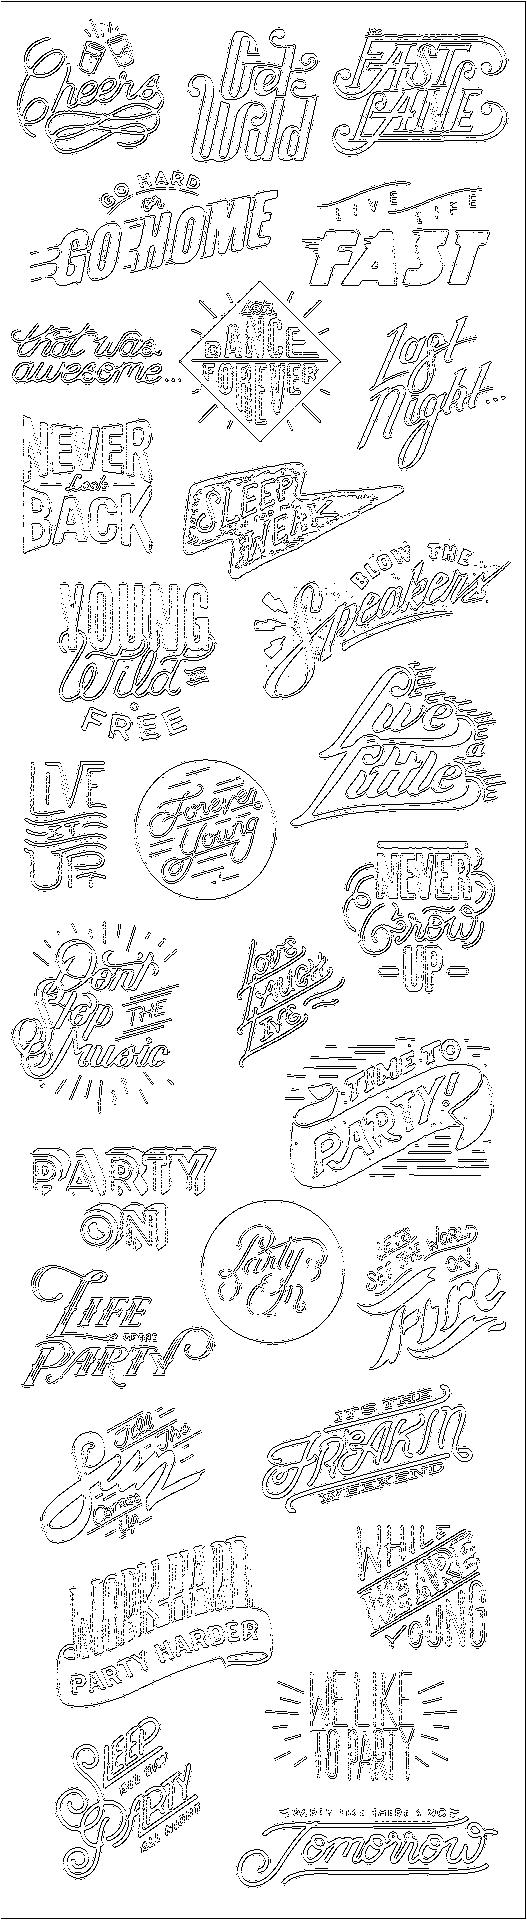
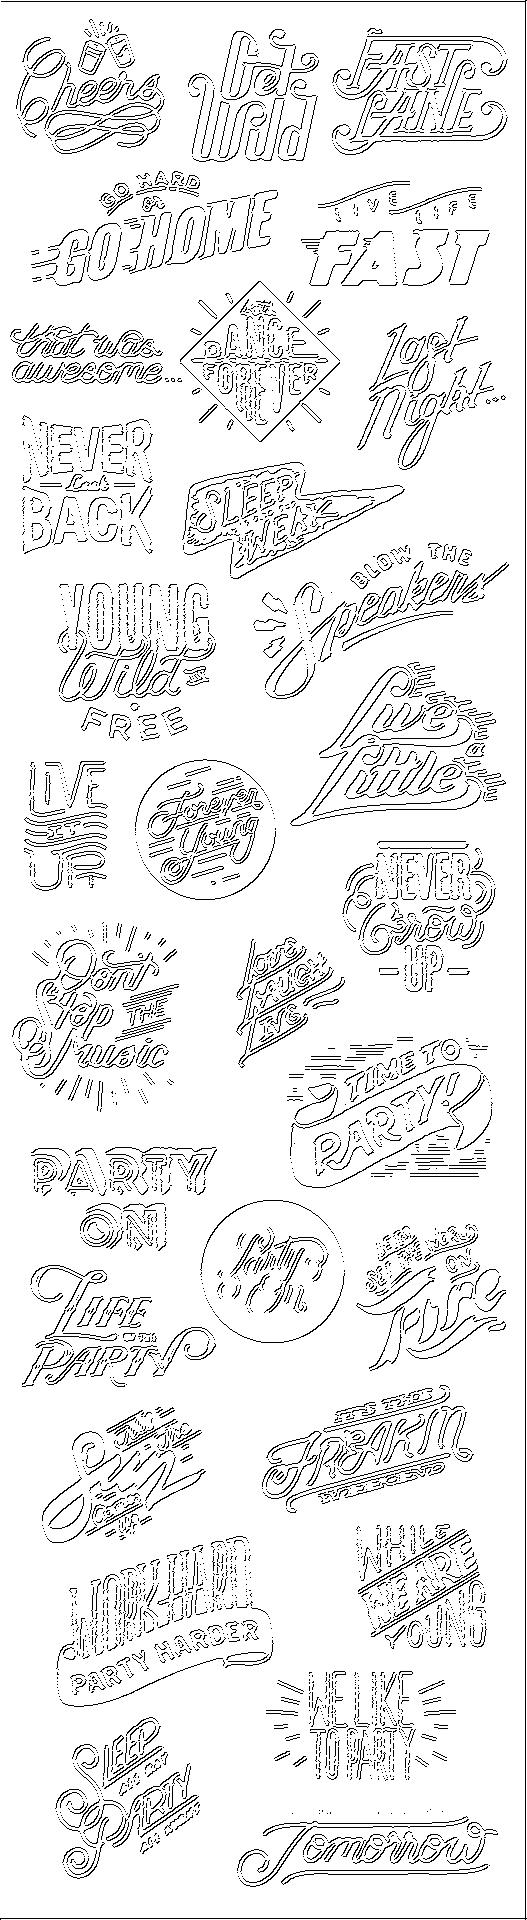
super speed smoothing-fucntion

diff --git a/src/canny_related.py b/src/canny_related.py
@@ -2,7 +2,7 @@ import numpy as np
 from src import utils
 horizontalMask = np.empty(shape=(3, 3))
 verticalMask = np.empty(shape=(3, 3))
-bigThreshold = 70
+bigThreshold = 50
 smallThreshold = 20
 
 
@@ -78,24 +78,24 @@ def cannyGetEdgePoints(magMatrix, dirMatrix, width, useSmallThreshold):
                 # bucket 3
                 if (dirInWhichBucket(dir[id]) == 3):
                     if ((id - width not in points) and getMagValue(id, mag, 1, width) >= smallThreshold
-                            and getDirValue(id, dir, 1,width) != -1 and (dirInWhichBucket(getDirValue(id, dir, 1, width)) == 3)):
+                            and getDirValue(id, dir, 1,width) != 181 and (dirInWhichBucket(getDirValue(id, dir, 1, width)) == 3)):
                         if (isHorMax(id - width, mag, width)):
                             points.append(id - width)
                             newConsidering.append(id - width)
                     if ((id + width not in points) and getMagValue(id, mag, 7, width) >= smallThreshold
-                            and getDirValue(id,dir,7,width) != -1 and (dirInWhichBucket(getDirValue(id, dir, 7, width)) == 3)):
+                            and getDirValue(id,dir,7,width) != 181 and (dirInWhichBucket(getDirValue(id, dir, 7, width)) == 3)):
                         if (isHorMax(id + width, mag, width)):
                             points.append(id + width)
                             newConsidering.append(id + width)
                 # bucket 1
                 elif (dirInWhichBucket(dir[id]) == 1):
                     if ((id - width + 1 not in points) and getMagValue(id, mag, 2, width) >= smallThreshold
-                            and getDirValue(id, dir, 2, width) != -1 and (dirInWhichBucket(getDirValue(id, dir, 2, width)) == 1)):
+                            and getDirValue(id, dir, 2, width) != 181 and (dirInWhichBucket(getDirValue(id, dir, 2, width)) == 1)):
                         if (isBackwardSlashMax(id - width + 1, mag, width)):
                             points.append(id - width + 1)
                             newConsidering.append(id - width + 1)
                     if ((id + width - 1 not in points) and getMagValue(id, mag, 6, width) >= smallThreshold
-                            and getDirValue(id, dir, 6, width) != -1 and (dirInWhichBucket(getDirValue(id, dir, 6, width)) == 1)):
+                            and getDirValue(id, dir, 6, width) != 181 and (dirInWhichBucket(getDirValue(id, dir, 6, width)) == 1)):
                         if (isBackwardSlashMax(id + width - 1, mag, width)):
                             points.append(id + width - 1)
                             newConsidering.append(id + width - 1)
@@ -103,12 +103,12 @@ def cannyGetEdgePoints(magMatrix, dirMatrix, width, useSmallThreshold):
                 # bucket 4
                 elif (dirInWhichBucket(dir[id]) == 4):
                     if ((id - 1 not in points) and getMagValue(id, mag, 3, width) >= smallThreshold
-                            and getDirValue(id, dir,3,width) != -1 and (dirInWhichBucket(getDirValue(id, dir, 3, width)) == 4)):
+                            and getDirValue(id, dir,3,width) != 181 and (dirInWhichBucket(getDirValue(id, dir, 3, width)) == 4)):
                         if (isVerMax(id - 1, mag, width)):
                             points.append(id - 1)
                             newConsidering.append(id - 1)
                     if ((id + 1 not in points) and getMagValue(id, mag, 5, width) >= smallThreshold
-                            and getDirValue(id, dir,5,width) != -1 and (dirInWhichBucket(getDirValue(id, dir, 5, width)) == 4)):
+                            and getDirValue(id, dir,5,width) != 181 and (dirInWhichBucket(getDirValue(id, dir, 5, width)) == 4)):
                         if (isVerMax(id + 1, mag, width)):
                             points.append(id + 1)
                             newConsidering.append(id + 1)
@@ -116,12 +116,12 @@ def cannyGetEdgePoints(magMatrix, dirMatrix, width, useSmallThreshold):
                 # bucket 2
                 elif (dirInWhichBucket(dir[id]) == 2):
                     if ((id - width - 1 not in points) and getMagValue(id, mag, 0, width) >= smallThreshold
-                            and getDirValue(id, dir, 0, width) != -1 and (dirInWhichBucket(getDirValue(id, dir, 0, width)) == 2)):
+                            and getDirValue(id, dir, 0, width) != 181 and (dirInWhichBucket(getDirValue(id, dir, 0, width)) == 2)):
                         if (isForwardSlashMax(id - width - 1, mag, width)):
                             points.append(id - width - 1)
                             newConsidering.append(id - width - 1)
                     if ((id + width + 1 not in points) and getMagValue(id, mag, 8, width) >= smallThreshold
-                            and getDirValue(id, dir, 8, width) != -1 and (dirInWhichBucket(getDirValue(id, dir, 8, width)) == 2)):
+                            and getDirValue(id, dir, 8, width) != 181 and (dirInWhichBucket(getDirValue(id, dir, 8, width)) == 2)):
                         if (isForwardSlashMax(id + width + 1, mag, width)):
                             points.append(id + width + 1)
                             newConsidering.append(id + width + 1)
@@ -185,42 +185,42 @@ def getDirValue(id, dirFlatten, relativeLocation, width):
         try:
             return dirFlatten[id - width - 1]
         except:
-            return -1
+            return 181
     elif (relativeLocation == 1):
         try:
             return dirFlatten[id - width]
         except:
-            return -1
+            return 181
     elif (relativeLocation == 2):
         try:
             return dirFlatten[id - width + 1]
         except:
-            return -1
+            return 181
     elif (relativeLocation == 3):
         try:
             return dirFlatten[id - 1]
         except:
-            return -1
+            return 181
     elif (relativeLocation == 5):
         try:
             return dirFlatten[id + 1]
         except:
-            return -1
+            return 181
     elif (relativeLocation == 6):
         try:
             return dirFlatten[id + width - 1]
         except:
-            return -1
+            return 181
     elif (relativeLocation == 7):
         try:
             return dirFlatten[id + width]
         except:
-            return -1
+            return 181
     elif (relativeLocation == 8):
         try:
             return dirFlatten[id + width + 1]
         except:
-            return -1
+            return 181
 
 
 def isHorMax(id, magFlatten, width):
@@ -256,11 +256,10 @@ def isBackwardSlashMax(id, magFlatten, width):
 
 
 # parameter : gradient direction
-# output is edge direction as below
-#       1 : /
-#       2 : \
-#       3 : |
-#       4 : -
+#       1 : \
+#       2 : /
+#       3 : -
+#       4 : |
 def dirInWhichBucket(dirValue):
     if((dirValue < 22.5 and dirValue >= -22.5) or (dirValue >= 157.5 and dirValue < -157.5)):
         return 3

diff --git a/src/img_handler.py b/src/img_handler.py
@@ -2,9 +2,13 @@ from PIL import Image
 import numpy as np
 from src import utils
 import math
+import time
+from scipy import ndimage
+
 
 def readImage(inputPath):
     return Image.open(inputPath)
+
 
 # too slow
 def savePixelGrayValueToMatrixSlow(img):
@@ -19,7 +23,6 @@ def savePixelGrayValueToMatrix(img):
     matrix2 = rgbMatrix[:, :, 1] * 0.587
     matrix3 = rgbMatrix[:, :, 2] * 0.114
     return matrix1 + matrix2 + matrix3
-
 
 
 def smoothingMaxMin(grayMatrix, margin):
@@ -58,17 +61,6 @@ def smoothingMaxMin(grayMatrix, margin):
     # return rs
 
 
-def smoothingAvg(grayMatrix, margin):
-    height = grayMatrix.shape[0]
-    width = grayMatrix.shape[1]
-    for y in range(height):
-        for x in range(width):
-            grayMatrix[y][x] = grayMatrix[y][x - 1] if x > 0 else grayMatrix[y][x + 1]
-            grayMatrix[y][x] = np.average(grayMatrix[y - margin if y >= margin else 0: y + margin + 1,
-                                          x - margin if x >= margin else 0: x + margin + 1])
-    return grayMatrix
-
-
 def convertToGrayValue(rgbValue):
     return (0.299 * rgbValue[0] + 0.587 * rgbValue[1] + 0.114 * rgbValue[2])
 
@@ -87,38 +79,44 @@ def changeImageToGray(input, output):
     # imgRS.show()
     imgRS.save(output)
 
-def smoothingAvg2(grayMatrix,margin):
+
+def smoothingAvg(grayMatrix, margin):
+    start = time.clock()
     width = grayMatrix.shape[1]
     height = grayMatrix.shape[0]
-    biggerMatrix = utils.saveToBiggerMatrix(grayMatrix,margin)
-    # print(biggerMatrix)
-    sum_Y_Matrix = np.zeros((height, width + margin*2))
-    for y in range(margin,biggerMatrix.shape[0]-margin):
+    
+    # create sum matrix
+    biggerMatrix = utils.saveToBiggerMatrix(grayMatrix, margin)
+    sum_Y_Matrix = np.zeros((height, width + margin * 2))
+    for y in range(margin, biggerMatrix.shape[0] - margin):
         for i in range(y - margin, y + margin + 1):
-            sum_Y_Matrix[y-margin,:] += biggerMatrix[i,:]
+            sum_Y_Matrix[y - margin, :] += biggerMatrix[i, :]
     sumMatrix = np.zeros(grayMatrix.shape)
-    for x in range(margin,biggerMatrix.shape[1]-margin):
+    for x in range(margin, biggerMatrix.shape[1] - margin):
         for i in range(x - margin, x + margin + 1):
-            # print(sumMatrix[:,x-margin])
-            # print(biggerMatrix[:,i])
-            sumMatrix[:,x-margin] += sum_Y_Matrix[:,i]
-    rs = np.empty(grayMatrix.shape)
-    for y in range(height):
-        for x in range(width):
-            top = y - margin if y >= margin else 0
-            bottom = y + margin if y + margin < height else height - 1
-            left = x - margin if x >= margin else 0
-            right = x + margin if x + margin < width else width  - 1
-            numberOfNearPixels = (bottom - top + 1) * (right - left + 1)
-            rs[y][x] = np.round(sumMatrix[y][x]/numberOfNearPixels)
+            sumMatrix[:, x - margin] += sum_Y_Matrix[:, i]
+            
+    # create neighbor-count matrix
+    onesMatrix = np.ones(grayMatrix.shape)
+    biggerMatrix = utils.saveToBiggerMatrix(onesMatrix, margin)
+    sum_Y_Matrix_Count = np.zeros((height, width + margin * 2))
+    for y in range(margin, biggerMatrix.shape[0] - margin):
+        for i in range(y - margin, y + margin + 1):
+            sum_Y_Matrix_Count[y - margin, :] += biggerMatrix[i, :]
+    sumMatrixCount = np.zeros(grayMatrix.shape)
+    for x in range(margin, biggerMatrix.shape[1] - margin):
+        for i in range(x - margin, x + margin + 1):
+            sumMatrixCount[:, x - margin] += sum_Y_Matrix_Count[:, i]
+    rs = np.floor(sumMatrix / sumMatrixCount)
     return rs
 
+
 def sharpen(grayMatrix, howSharp):
-    kernel = np.zeros((3,3))
-    kernel.fill(-1 * howSharp / 8)
+    kernel = np.zeros((3, 3))
+    kernel.fill(-1 * howSharp / 9)
     kernel[1][1] = howSharp
-    return utils.convolve(grayMatrix,kernel)
+    return utils.convolve(grayMatrix, kernel)
 
 
-
-
+def smoothingAvgFromScipy(grayMatrix, margin):
+    return ndimage.generic_filter(grayMatrix, np.nanmean, size=2 * margin + 1, mode='constant', cval=np.NaN)

diff --git a/src/main.py b/src/main.py
@@ -2,12 +2,12 @@ import time
 from PIL import Image
 from src.utils import from2dTo1d,from1dTo2d, saveToBiggerMatrix
 from src.canny_related import initiateMask, getGradientMatrix, getMagnitudeMatrix, getDirectionMatrix, cannyGetEdgePoints
-from src.img_handler import readImage, savePixelGrayValueToMatrix, smoothingAvg, smoothingAvg2
+from src.img_handler import readImage, savePixelGrayValueToMatrix, smoothingAvg, smoothingAvgFromScipy
 from src import test
 import numpy as np
 from src import img_handler
-ip = "..\\bunny.jpg"
-op = "..\\bunny_edge.jpg"
+ip = "..\\slogans.jpg"
+op = "..\\slogans_edge.jpg"
 # ip = "..\\sunset_winter.jpg"
 # op = "..\\sunset_winter_edge.jpg"
 
@@ -16,14 +16,15 @@ def realMain():
     initiateMask()
     img = readImage(ip)
     gray_matrix = savePixelGrayValueToMatrix(img)
-    gray_matrix = smoothingAvg2(gray_matrix, 1)
-    gray_matrix = img_handler.sharpen(gray_matrix,2)
+    gray_matrix = smoothingAvg(gray_matrix, 1)
+    gray_matrix = smoothingAvg(gray_matrix, 1)
+    gray_matrix = smoothingAvg(gray_matrix, 1)
+    gray_matrix = img_handler.sharpen(gray_matrix,1)
     biggerMatrix = saveToBiggerMatrix(gray_matrix, 1)
     horizontalGradientMatrix = getGradientMatrix(biggerMatrix, 1)
     verticalGradientMatrix = getGradientMatrix(biggerMatrix, 2)
     magnitudeMatrix = getMagnitudeMatrix(horizontalGradientMatrix, verticalGradientMatrix)
     directionMatrix = getDirectionMatrix(horizontalGradientMatrix, verticalGradientMatrix)
-    print(np.where(directionMatrix < 0)[0].shape)
     edgePoints = cannyGetEdgePoints(magnitudeMatrix, directionMatrix, img.size[0], False)
     edgeImg = Image.new("1", img.size, 255)
     pix = edgeImg.load()
@@ -34,9 +35,9 @@ def realMain():
     print("--- %s seconds ---" % (time.clock() - start))
 
 def testMain():
-    # test.testSmoothAvg()
+    test.testSmoothAvg()
     # print(test.twiceReturn())
-    test.testConvolve()
+    # test.testConvolve()
 
 if __name__ == '__main__':
     realMain()

diff --git a/src/test.py b/src/test.py
@@ -1,14 +1,24 @@
 import numpy as np
 from src import img_handler
 from src import utils
+import time
 
 def testSmoothAvg():
-    t = np.arange(100).reshape((10,10))
+    t = np.arange(1200*1920).reshape((1200,1920))
+    # t = np.arange(100).reshape((10,10))
     print(t)
     # print("\n\n\n")
     # print(img_handler.smoothingAvg2(t,1))
     # print("\n\n\n")
-    print(img_handler.smoothingAvg2(t,2))
+    start = time.clock()
+    t1 = (img_handler.smoothingAvg(t,1))
+    time1 = time.clock()
+    t2 = (img_handler.smoothingAvg(t,1))
+    time2 = time.clock()
+    print(time1 - start)
+    print(time2 - time1)
+    t3 = t1-t2
+    print(np.where(t3 > 0))
 
 def twiceReturn():
     if(5>0):
